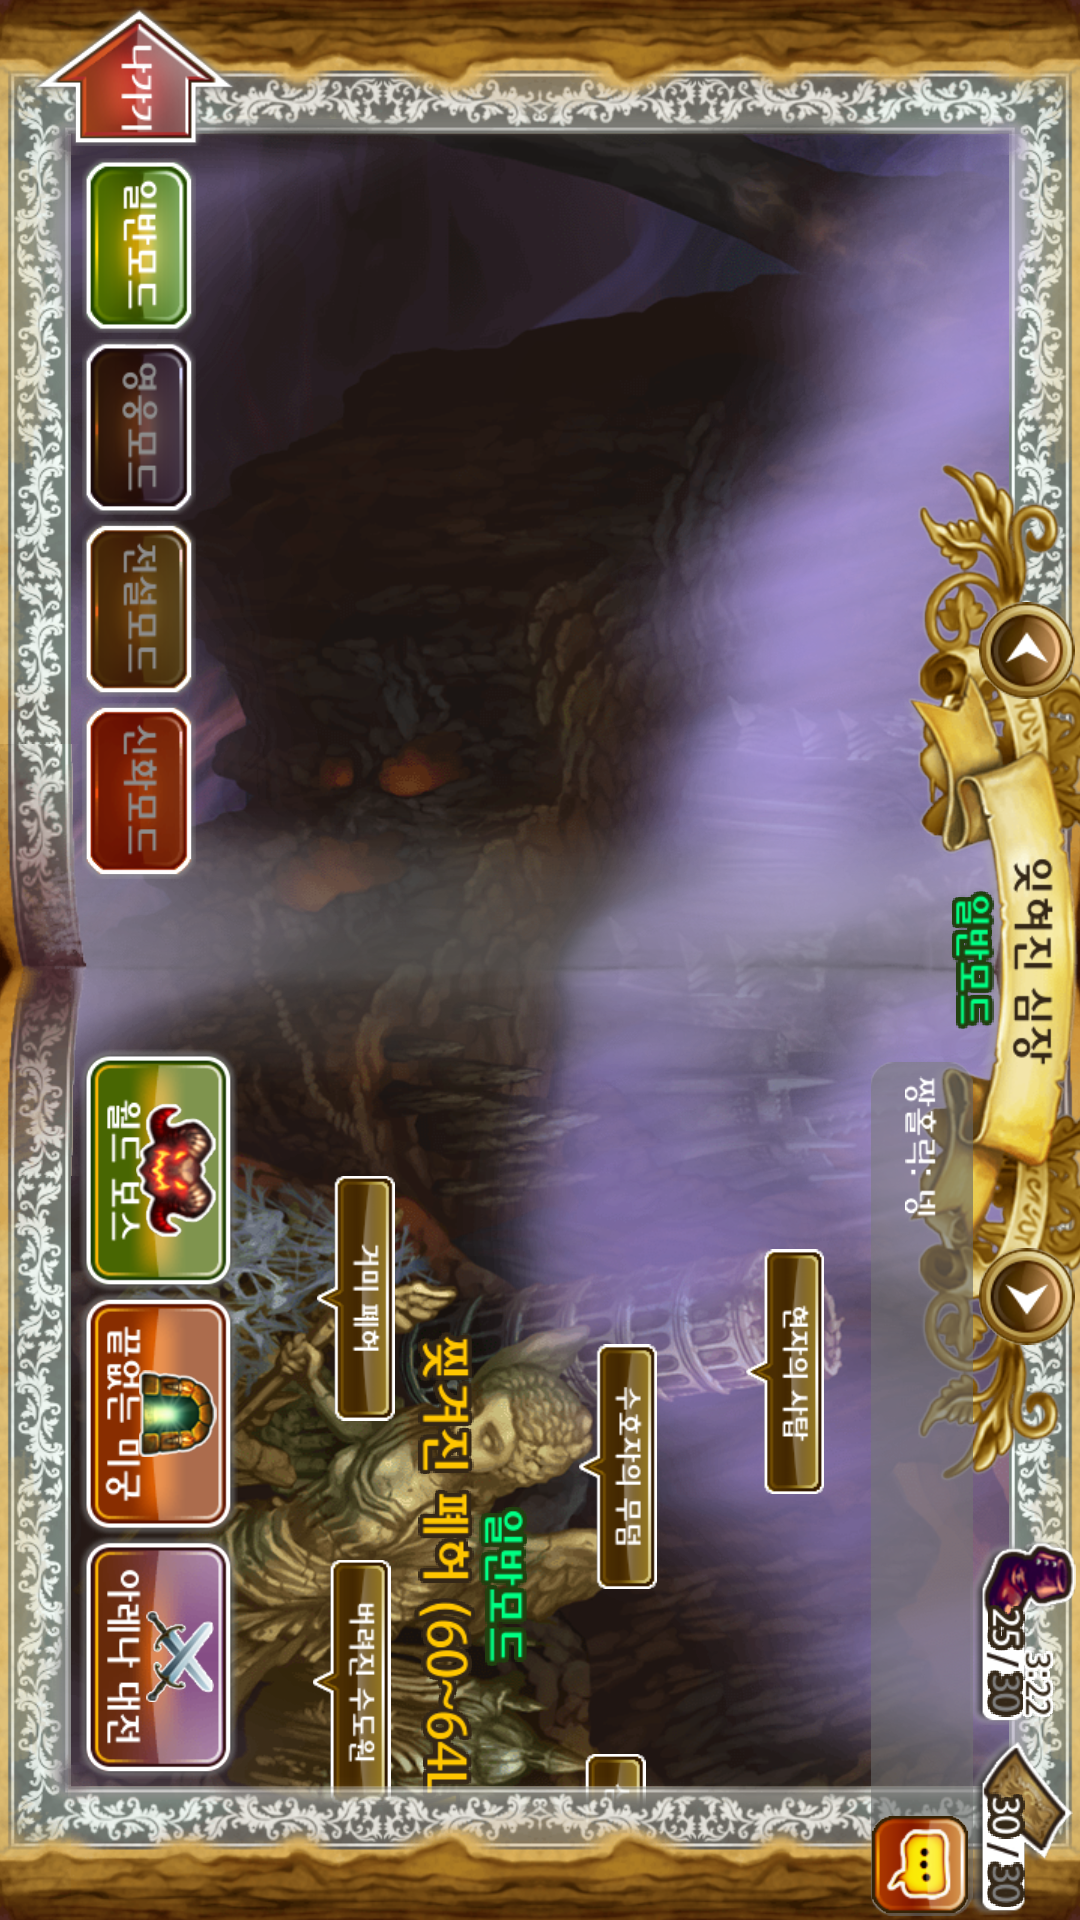
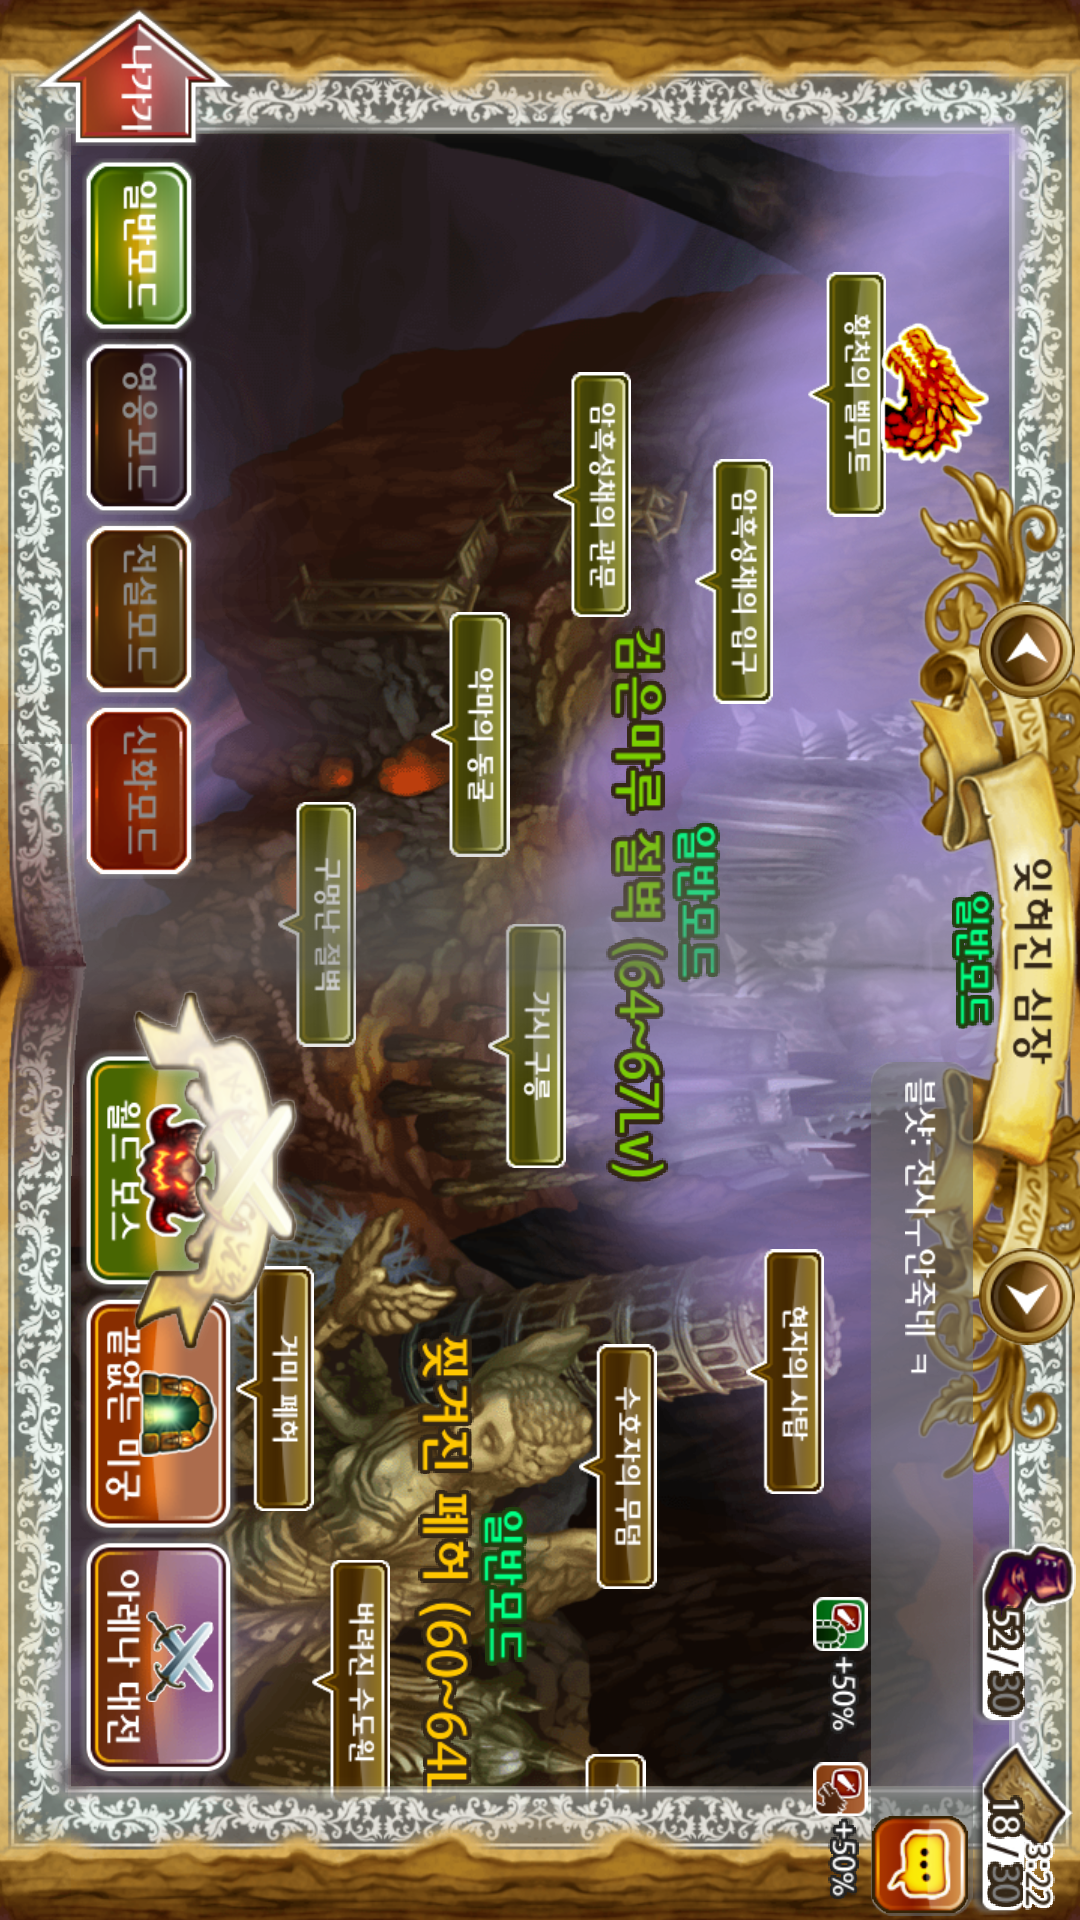
update...

diff --git a/star/star.py b/star/star.py
@@ -55,7 +55,7 @@ Stages = gam.set_stages(
     MI='migung', MI_A='migung_a', A='arena', A_A='arena_a', A_R='arena_r', A_N='arena_n',
     P='play', P_A='play_a', P_R='play_r', P_RB='play_daily_boss', P_AUTO='play_auto',
     B='bag', B_L='bag_l', B_D='bag_detail', B_S='bag_s', B_SP='bag_sp', B_P0='bag_p0',
-    BO='bonus', BO_A='bonus_a', D='daily', Q_O='quest_open')
+    BO='bonus', BO_A='bonus_a', D='daily', Q_O='quest_open', B_HP='boss_hp')
 
 gam.set_ref(Stages.H, 0.8)
 gam.set_ref(Stages.H_AD, 0.9)
@@ -94,6 +94,7 @@ gam.set_ref(Stages.D, 0.8)
 # custom check only
 gam.set_ref(Stages.A_N, 0.9)
 gam.set_ref(Stages.Q_O, 0.9)
+gam.set_ref(Stages.B_HP, 0.9)
 
 
 def drag_to_top_right():
@@ -129,6 +130,14 @@ def check_bonus():
 def check_auto(shot):
     if gam.check_stage(shot, Stages.P_AUTO):
         gam.touch(200, 1000, 'auto 켜기')
+
+
+def check_boss_hp_and_use_scroll(shot):
+    if gam.check_stage(shot, Stages.B_HP):
+        gam.print_msg("low boss hp")
+        gam.touch(1550, 1000, 'scroll 1')
+        gam.touch(1700, 1000, 'scroll 2')
+        gam.touch(1850, 1000, 'scroll 3')
 
 
 def empty_bag():
@@ -268,8 +277,8 @@ def run_raid(is_infinity):
 
                 gam.touch(1789, 912, msg + ':모험하기')
         elif stage is Stages.M:
-            drag_to_bottom_right()
-            gam.touch(500, 450, msg + '심연의 아퀼러스')
+            drag_to_bottom_left()
+            gam.touch(400, 220, msg + '황천의 벨무트')
         elif stage is Stages.M_A:
             no_coin[1] = True
             gam.touch(1051, 756, msg + ':티켓 부족 확인')
@@ -283,15 +292,17 @@ def run_raid(is_infinity):
                 MonkeyRunner.sleep(no_ticket_sleep)
         elif stage is Stages.P:
             check_auto(shot)
-            is_played = True
-            MonkeyRunner.sleep(10.0)
+            if not is_played:
+                is_played = True
+                MonkeyRunner.sleep(20.0)
+            check_boss_hp_and_use_scroll(shot)
         elif stage is Stages.P_A:
             gam.touch(1131, 85, msg + ':동료 호출')
         elif stage is Stages.R:
             gam.touch(1700, 975, msg + ':레이드 시작')
         elif stage is Stages.R_A:
             gam.touch(1360, 765, msg + ':시작 확인')
-        elif stage is Stages.BO:
+        elif stage is Stages.BO or stage is Stages.BO_A:
             check_bonus()
         elif stage is Stages.R_R:
             is_succ = True
@@ -438,17 +449,19 @@ def play_sinbal():
         MonkeyRunner.sleep(1.0)
         run_daily(False)
     else:
-        if get_used_sinbal() % 2 is 0:
-            drag_to_bottom_left()
-            gam.touch(1500, 450, 'Quest:수호자의 무덤')  # drag_to_bottom_left()
-        else:
-            drag_to_top_right()
-            gam.touch(1300, 360, 'Quest:수정궁전')  # drag_to_top_right()
+        # if get_used_sinbal() % 2 is 0:
+        #     drag_to_bottom_left()
+        #     gam.touch(1500, 450, 'Quest:수호자의 무덤')  # drag_to_bottom_left()
+        # else:
+        #     drag_to_top_right()
+        #     gam.touch(1300, 360, 'Quest:수정궁전')  # drag_to_top_right()
+        drag_to_bottom_left()
+        gam.touch(1000, 550, 'Quest:가시구릉') #drag_to_bottom_left()
 
         for i in range(1): run_quest(False)
 
     MonkeyRunner.sleep(1.0)
-    gam.back()  # Map
+    gam.back('back')  # Map
     MonkeyRunner.sleep(1.0)
     gam.touch(1300, 50, 'Quest:Go to Map2')
 
